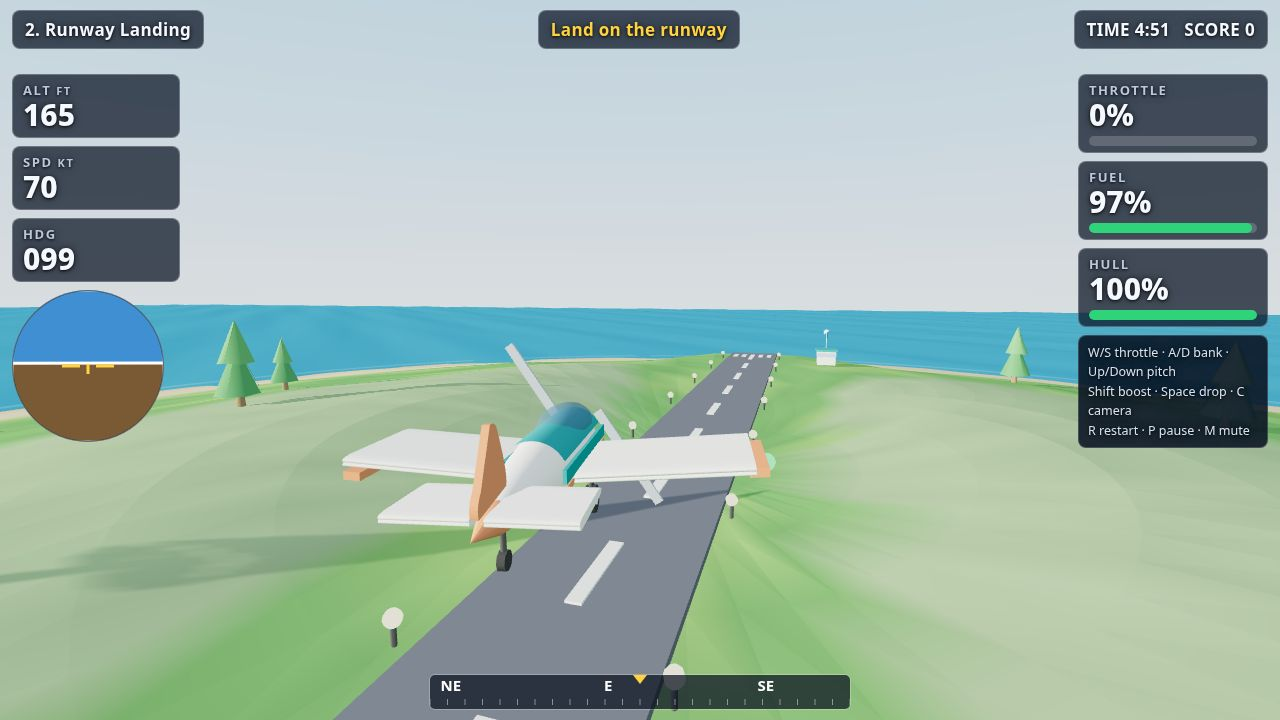
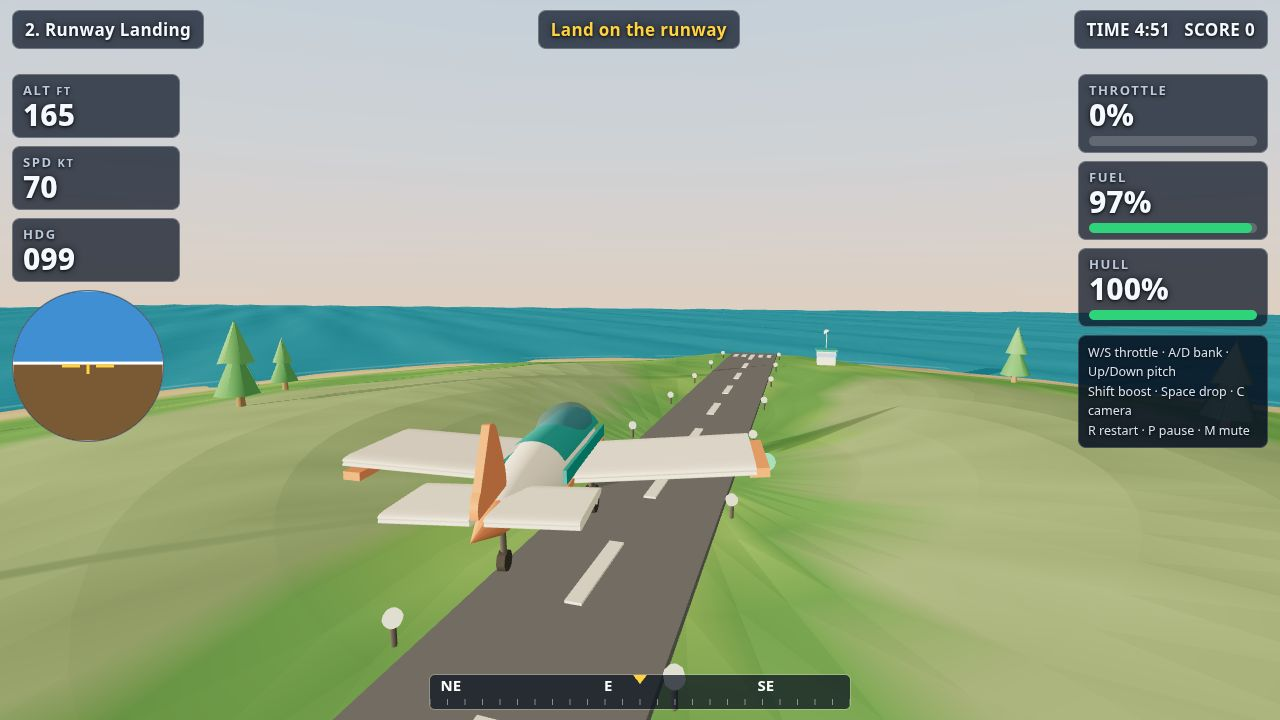
Revision for round 2: golden-hour lighting, sea detail, lighthouse, prop fix

diff --git a/game/src/terrain.js b/game/src/terrain.js
@@ -206,11 +206,13 @@ export function createTerrain(seed) {
     const skyGeo = new THREE.SphereGeometry(4200, 28, 18);
     const pos = skyGeo.attributes.position;
     const colours = new Float32Array(pos.count * 3);
-    const top = new THREE.Color(0x1e5f9e);
-    const mid = new THREE.Color(0x6fb1e6);
-    // Pale blue, not cream: a warm horizon band blew out to white under
-    // ACES tone mapping and washed the whole sky out of the cover shot.
-    const horizon = new THREE.Color(0xbdd8ec);
+    const top = new THREE.Color(0x2a5da8);
+    const mid = new THREE.Color(0x86b7e2);
+    // Warm peach horizon for golden hour. The old cream band blew out
+    // to white under ACES — this one is deeper (0xecab7d) and the
+    // renderer exposure is dropped to 0.92, so it reads as warm haze,
+    // not a white wall. The gradient is still blue overhead.
+    const horizon = new THREE.Color(0xecab7d);
     const c = new THREE.Color();
     for (let i = 0; i < pos.count; i += 1) {
       const t = clamp01(pos.getY(i) / 4200); // 0 at horizon, 1 at zenith
@@ -231,12 +233,52 @@ export function createTerrain(seed) {
   // its vertices into slow rolling waves. The specular is deliberately
   // dim (a bright sun-glint turned the whole sea into a white mirror
   // streak from the air) and the colour is deep, so water never shares
-  // a value with sand or foam. ---
+  // a value with sand or foam. A procedural bump texture gives the sea
+  // visible wave texture from 150 m up, where vertex waves alone read
+  // as flat pale blue. ---
   const seaGeo = new THREE.PlaneGeometry(WORLD.extent * 3.4, WORLD.extent * 3.4, 150, 150);
+  // The bump texture needs a canvas, so it only exists in a real
+  // browser — a headless rules sim loads this module without a document.
+  const seaNoise = typeof document === 'undefined' ? null : (() => {
+    // Soft random blotches + horizontal streaks on a mid-grey canvas:
+    // as a bump map it reads as swell texture, never as a picture.
+    const canvas = document.createElement('canvas');
+    canvas.width = 256;
+    canvas.height = 256;
+    const ctx = canvas.getContext('2d');
+    ctx.fillStyle = '#808080';
+    ctx.fillRect(0, 0, 256, 256);
+    const rand = createRandom(seed * 7 + 3);
+    for (let i = 0; i < 260; i += 1) {
+      const g = 96 + Math.floor(rand() * 64);
+      ctx.fillStyle = `rgba(${g},${g},${g},0.5)`;
+      const w = 12 + rand() * 46;
+      const h = 4 + rand() * 10;
+      ctx.beginPath();
+      ctx.ellipse(rand() * 256, rand() * 256, w, h, 0, 0, Math.PI * 2);
+      ctx.fill();
+    }
+    for (let i = 0; i < 90; i += 1) {
+      const g = 88 + Math.floor(rand() * 72);
+      ctx.strokeStyle = `rgba(${g},${g},${g},0.45)`;
+      ctx.lineWidth = 1 + rand() * 2;
+      const y = rand() * 256;
+      ctx.beginPath();
+      ctx.moveTo(0, y);
+      ctx.bezierCurveTo(85, y + (rand() - 0.5) * 14, 170, y + (rand() - 0.5) * 14, 256, y);
+      ctx.stroke();
+    }
+    const tex = new THREE.CanvasTexture(canvas);
+    tex.wrapS = THREE.RepeatWrapping;
+    tex.wrapT = THREE.RepeatWrapping;
+    tex.repeat.set(30, 30);
+    return tex;
+  })();
   const sea = new THREE.Mesh(
     seaGeo,
     new THREE.MeshPhongMaterial({
-      color: PALETTE.sea, specular: 0x274b5e, shininess: 40,
+      color: PALETTE.sea, specular: 0x9a7a55, shininess: 55,
+      bumpMap: seaNoise, bumpScale: 0.9,
     }),
   );
   sea.rotation.x = -Math.PI / 2;
@@ -465,6 +507,7 @@ export function createTerrain(seed) {
 
   // --- runways: dark strip, white centre dashes, threshold bars, glowing
   // edge lights, windsock, plus a hangar and control hut at home. ---
+  let lighthouse = null;
   function buildRunway(cx, cz, headingRad, isHome) {
     const runwayGroup = new THREE.Group();
     const strip = new THREE.Mesh(
@@ -544,6 +587,64 @@ export function createTerrain(seed) {
         drum.castShadow = true;
         runwayGroup.add(drum);
       }
+      // Lighthouse by the far threshold, on the -Z side: red-and-white
+      // striped tower with a warm lamp and a rotating beam. It ties to
+      // the Beacon Rescue mission and gives the home airfield a landmark
+      // the takeoff and landing shots can actually see.
+      const lh = new THREE.Group();
+      const whiteMat = lambert(0xf7f3e8);
+      const redMat = lambert(0xe4572e);
+      const seg1 = new THREE.Mesh(new THREE.CylinderGeometry(2.6, 3.2, 6, 12), whiteMat);
+      seg1.position.y = 3;
+      seg1.castShadow = true;
+      lh.add(seg1);
+      const seg2 = new THREE.Mesh(new THREE.CylinderGeometry(2.2, 2.6, 6, 12), redMat);
+      seg2.position.y = 9;
+      seg2.castShadow = true;
+      lh.add(seg2);
+      const seg3 = new THREE.Mesh(new THREE.CylinderGeometry(1.9, 2.2, 6, 12), whiteMat);
+      seg3.position.y = 15;
+      seg3.castShadow = true;
+      lh.add(seg3);
+      const gallery = new THREE.Mesh(new THREE.CylinderGeometry(3.0, 3.0, 1, 12), lambert(0x2c343c));
+      gallery.position.y = 18.5;
+      lh.add(gallery);
+      const lamp = new THREE.Mesh(
+        new THREE.CylinderGeometry(1.6, 1.6, 3, 10),
+        new THREE.MeshBasicMaterial({ color: 0xffe9a8 }),
+      );
+      lamp.position.y = 20.5;
+      lh.add(lamp);
+      const lhRoof = new THREE.Mesh(new THREE.ConeGeometry(2.2, 2.6, 10), redMat);
+      lhRoof.position.y = 23.3;
+      lh.add(lhRoof);
+      if (typeof document !== 'undefined') {
+        const lampGlow = new THREE.Sprite(new THREE.SpriteMaterial({
+          map: makeGlowTexture(), color: 0xffd27a, transparent: true, opacity: 0.7,
+          blending: THREE.AdditiveBlending, depthWrite: false,
+        }));
+        lampGlow.scale.set(36, 36, 1);
+        lampGlow.position.y = 20.5;
+        lh.add(lampGlow);
+      }
+      // Rotating beam: a long additive cone, apex at the lamp, base
+      // outward. The renderer spins this group around Y.
+      const beam = new THREE.Group();
+      beam.position.y = 20.5;
+      const beamCone = new THREE.Mesh(
+        new THREE.ConeGeometry(7, 110, 12, 1, true),
+        new THREE.MeshBasicMaterial({
+          color: 0xffe9a8, transparent: true, opacity: 0.16,
+          blending: THREE.AdditiveBlending, depthWrite: false, side: THREE.DoubleSide,
+        }),
+      );
+      beamCone.rotation.z = -Math.PI / 2; // apex points +X, base -X
+      beamCone.position.x = -55; // apex sits at the lamp
+      beam.add(beamCone);
+      lh.add(beam);
+      lh.position.set(RUNWAY.length / 2 - 55, 0, -(RUNWAY.width / 2 + 30));
+      runwayGroup.add(lh);
+      lighthouse = { beam, lamp };
     }
     // Control hut: small building with a glass band and an antenna mast.
     const hut = new THREE.Group();
@@ -615,23 +716,26 @@ export function createTerrain(seed) {
   }
 
   // --- sun: a big bright disc with a soft glow halo, low in the west ---
+  // Golden hour: low elevation (~8 deg) so shadows stretch long and the
+  // light is warm amber, not white. Position matches the renderer's
+  // directional sun direction.
   const sun = new THREE.Mesh(
     new THREE.SphereGeometry(70, 20, 14),
-    new THREE.MeshBasicMaterial({ color: PALETTE.sun, fog: false }),
+    new THREE.MeshBasicMaterial({ color: 0xffd9a0, fog: false }),
   );
-  sun.position.set(-1500, 620, -1900);
+  sun.position.set(-1700, 300, -1500);
   group.add(sun);
   // The halo needs a canvas, so it only exists in a real browser — the
   // headless rules sim loads this module without a document.
   if (typeof document !== 'undefined') {
     const sunGlow = new THREE.Sprite(new THREE.SpriteMaterial({
-      map: makeGlowTexture(), color: 0xffe9a8, transparent: true, opacity: 0.6,
+      map: makeGlowTexture(), color: 0xffc27a, transparent: true, opacity: 0.55,
       blending: THREE.AdditiveBlending, depthWrite: false, fog: false,
     }));
-    sunGlow.scale.set(550, 550, 1);
+    sunGlow.scale.set(700, 700, 1);
     sunGlow.position.copy(sun.position);
     group.add(sunGlow);
   }
 
-  return { group, groundHeight, isRunway, homeRunway, farRunway, islands, clouds, sun, sea, seaBase };
+  return { group, groundHeight, isRunway, homeRunway, farRunway, islands, clouds, sun, sea, seaBase, lighthouse };
 }

diff --git a/game/src/render.js b/game/src/render.js
@@ -38,26 +38,29 @@ export function createRenderer(canvas, terrain) {
   renderer.setSize(window.innerWidth, window.innerHeight);
   renderer.outputEncoding = THREE.sRGBEncoding;
   // Filmic tone mapping for a rich, non-washed-out picture, and real
-  // shadows from the low sun so the world has depth.
+  // shadows from the low sun so the world has depth. Exposure 0.92, not
+  // 1.0: golden hour puts a warm horizon and a low sun in frame, and
+  // 1.0 blew the sky out white the last time a warm band was tried.
   renderer.toneMapping = THREE.ACESFilmicToneMapping;
-  renderer.toneMappingExposure = 1.0;
+  renderer.toneMappingExposure = 0.92;
   renderer.shadowMap.enabled = true;
   renderer.shadowMap.type = THREE.PCFSoftShadowMap;
 
   const scene = new THREE.Scene();
-  scene.background = new THREE.Color(0x87bfe8);
+  scene.background = new THREE.Color(0x7fb0dd);
   scene.fog = new THREE.Fog(new THREE.Color(WORLD.fogColour).getHex(), WORLD.fogNear, WORLD.fogFar);
   scene.add(terrain.group);
 
-  // Hemisphere light: blue sky from above, warm ground bounce from below.
-  // 0.7, not 0.85: the stronger fill washed the grass to pale mint and
-  // tinted the white wings green from underneath.
-  const hemi = new THREE.HemisphereLight(0xbfd9f2, 0x4a7a52, 0.7);
+  // Hemisphere light: warm golden sky from above, warm ground bounce
+  // from below. 0.6, not 0.85: the stronger fill washed the grass to
+  // pale mint and tinted the white wings green from underneath.
+  const hemi = new THREE.HemisphereLight(0xffd9a8, 0x5c6b48, 0.6);
   scene.add(hemi);
-  // The sun: warm directional light with a shadow camera that follows
-  // the plane, so the plane's shadow stays in frame wherever she flies.
-  const sunDir = new THREE.Vector3(-1500, 620, -1900).normalize();
-  const sunLight = new THREE.DirectionalLight(0xffeecf, 1.5);
+  // The sun: warm amber directional light, LOW (about 8 deg elevation)
+  // in the west, so shadows stretch long across the islands. The
+  // direction must match the sun disc mesh in terrain.js.
+  const sunDir = new THREE.Vector3(-1700, 300, -1500).normalize();
+  const sunLight = new THREE.DirectionalLight(0xffc98a, 1.7);
   sunLight.castShadow = true;
   sunLight.shadow.mapSize.set(2048, 2048);
   sunLight.shadow.camera.left = -280;
@@ -335,17 +338,20 @@ export function createRenderer(canvas, terrain) {
         sunLight.target.updateMatrixWorld();
       }
 
-      // Rolling waves: displace the sea grid with two slow sine swells.
-      // The sea plane is rotated -PI/2 about X, so its local X is world X
-      // and its local Y is world -Z; local Z is world height.
+      // Rolling waves: displace the sea grid with slow sine swells.
+      // Amplitudes raised (1.4/0.8 -> 1.9/1.1) plus a tighter third
+      // swell, so the sea foreground reads as textured water from
+      // 150 m, not flat pale blue. The sea's bump texture does the
+      // fine detail; the vertices do the swell shapes.
       if (terrain.sea && terrain.seaBase) {
         const pos = terrain.sea.geometry.attributes.position;
         const base = terrain.seaBase;
         for (let i = 0; i < pos.count; i += 1) {
           const wx = base[i * 3];
           const wz = -base[i * 3 + 1];
-          pos.array[i * 3 + 2] = 1.4 * Math.sin(wx * 0.055 + time * 0.9) * Math.sin(wz * 0.043 - time * 0.7)
-            + 0.8 * Math.sin((wx + wz) * 0.03 + time * 1.3);
+          pos.array[i * 3 + 2] = 1.9 * Math.sin(wx * 0.055 + time * 0.9) * Math.sin(wz * 0.043 - time * 0.7)
+            + 1.1 * Math.sin((wx + wz) * 0.03 + time * 1.3)
+            + 0.4 * Math.sin(wx * 0.11 - time * 1.7) * Math.sin(wz * 0.09 + time * 1.4);
         }
         pos.needsUpdate = true;
         terrain.sea.geometry.computeVertexNormals();
@@ -404,6 +410,11 @@ export function createRenderer(canvas, terrain) {
       for (const cloud of terrain.clouds) {
         cloud.position.x += cloud.userData.speed * dt;
         if (cloud.position.x > WORLD.extent + 100) cloud.position.x = -WORLD.extent - 100;
+      }
+
+      // The lighthouse beam sweeps slowly around the home airfield.
+      if (terrain.lighthouse) {
+        terrain.lighthouse.beam.rotation.y = time * 0.9;
       }
 
       // Rain follows the plane in a storm.

diff --git a/game/src/aircraft.js b/game/src/aircraft.js
@@ -159,24 +159,19 @@ export function createAircraft() {
   spinner.rotation.z = -Math.PI / 2;
   spinner.position.x = 0.5;
   prop.add(spinner);
-  // Blades are pale grey, not near-black: a dark blade frozen mid-spin
-  // reads as a stick across the fuselage from the chase camera, which is
-  // exactly the look this overhaul is removing. The disc does the work.
-  const bladeMat = new THREE.MeshLambertMaterial({ color: 0x8b98a5 });
-  for (const side of [-1, 1]) {
-    const blade = new THREE.Mesh(new THREE.BoxGeometry(0.16, 5.4, 0.45), bladeMat);
-    blade.position.set(0, side * 2.7, 0);
-    blade.rotation.x = 0.35;
-    blade.castShadow = true;
-    prop.add(blade);
-  }
+  // No blade meshes: the two pale blades froze mid-spin as a white
+  // vertical line above/below the nose in every still (shots 1-3),
+  // even after the disc was faded to 0.05 — a spinning prop in a
+  // still frame is a disc, and the disc alone plus the spinner cone
+  // reads as a prop without ever drawing a line.
   const disc = new THREE.Mesh(
     new THREE.CircleGeometry(3.0, 28),
     new THREE.MeshBasicMaterial({
-      // Mid grey-blue, not near-white: edge-on from the chase camera the
-      // disc is a thin line below the nose, and a bright line reads as
-      // the old prop stick. Faint is correct for a spinning prop.
-      color: 0x7d99ad, transparent: true, opacity: 0.12,
+      // Dark and very faint: edge-on from the chase camera the disc is
+      // a thin line below the nose, and even a mid grey-blue line at
+      // 0.12 opacity still read as the old prop stick in shots 1-3.
+      // At 0.05 it is a whisper of a spinning prop, not a line.
+      color: 0x5a6b78, transparent: true, opacity: 0.05,
       side: THREE.DoubleSide, depthWrite: false,
     }),
   );
@@ -241,9 +236,11 @@ export function createAircraft() {
       if (starboard) starboard.visible = !blink;
       const strobeMesh = group.getObjectByName('strobe');
       if (strobeMesh) strobeMesh.visible = Math.sin(time * 6) > 0.85;
-      // The blur disc only reads while the prop is turning.
+      // The blur disc only reads while the prop is turning — and only
+      // barely: 0.05 is the ceiling, or its edge lines up as a stick
+      // below the nose in the stills.
       const discMesh = group.getObjectByName('propDisc');
-      if (discMesh) discMesh.material.opacity = flight.throttle > 0.05 ? 0.12 : 0.06;
+      if (discMesh) discMesh.material.opacity = flight.throttle > 0.05 ? 0.05 : 0.03;
     },
   };
 }

diff --git a/game/src/config.js b/game/src/config.js
@@ -13,7 +13,9 @@ export const WORLD = {
   fogNear: 1500,
   fogFar: 5200,
   skyTop: '#2f6fb8',
-  fogColour: '#9ec2de',
+  // Warm golden-hour haze, not cold blue: the fog tints distant islands
+  // and sea toward a soft peach instead of washing them toward pale blue.
+  fogColour: '#d6bfa5',
 };
 
 export const PLANE = {
@@ -76,8 +78,8 @@ export const PALETTE = {
   rockDark: 0x6b655a,
   runway: 0x33383f,
   runwayLine: 0xf2f2e8,
-  cloud: 0xffffff,
-  cloudShade: 0xd7e4ef,
+  cloud: 0xfff2dc,
+  cloudShade: 0xeec39e,
   sun: 0xfff3c4,
   fuselage: 0xf7f3e8,
   fuselageDark: 0xd96a1e,
